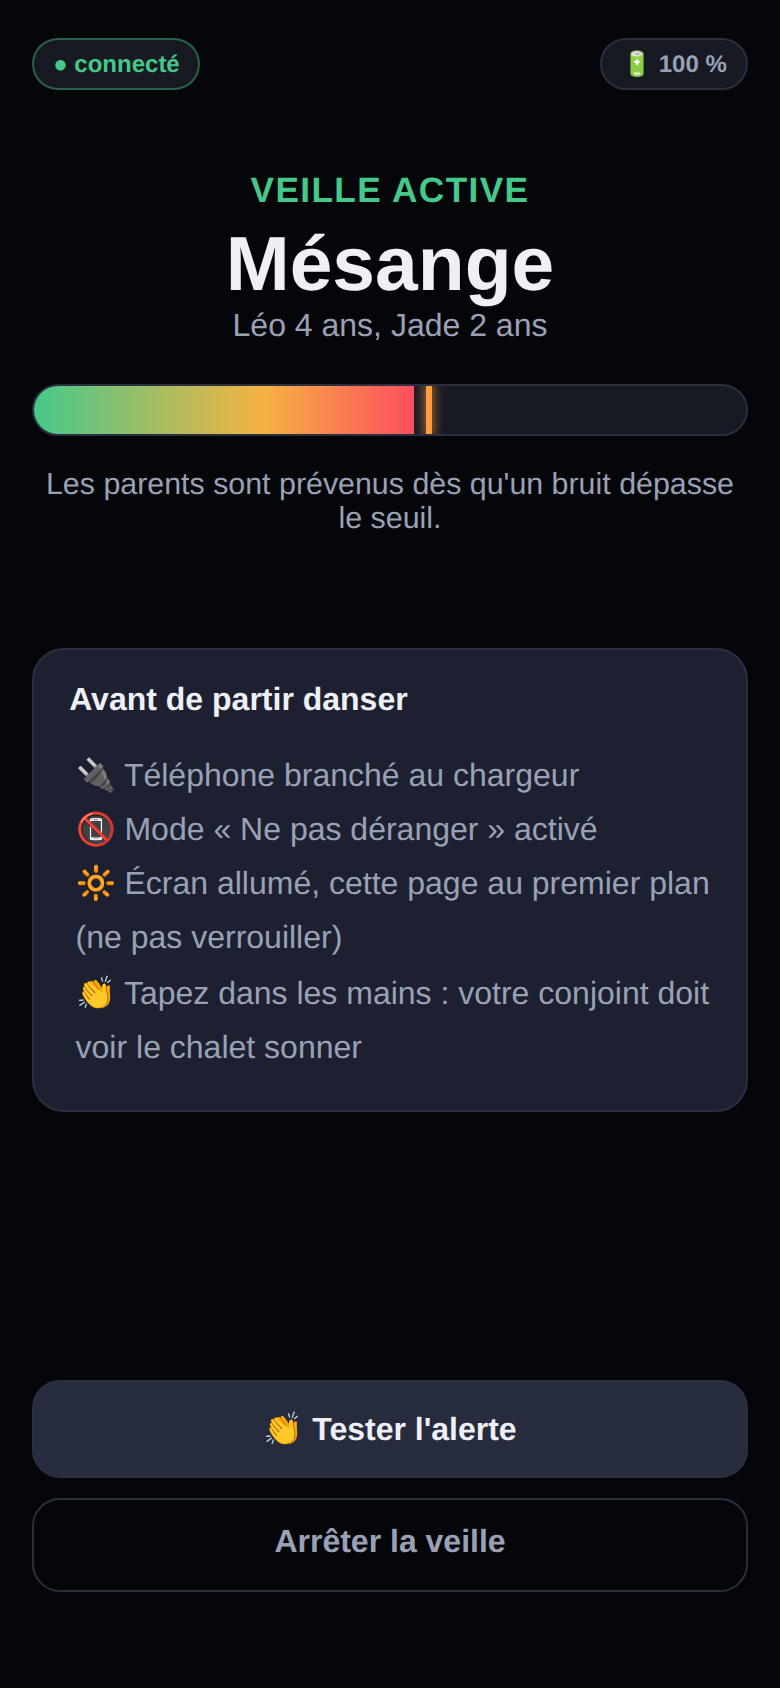
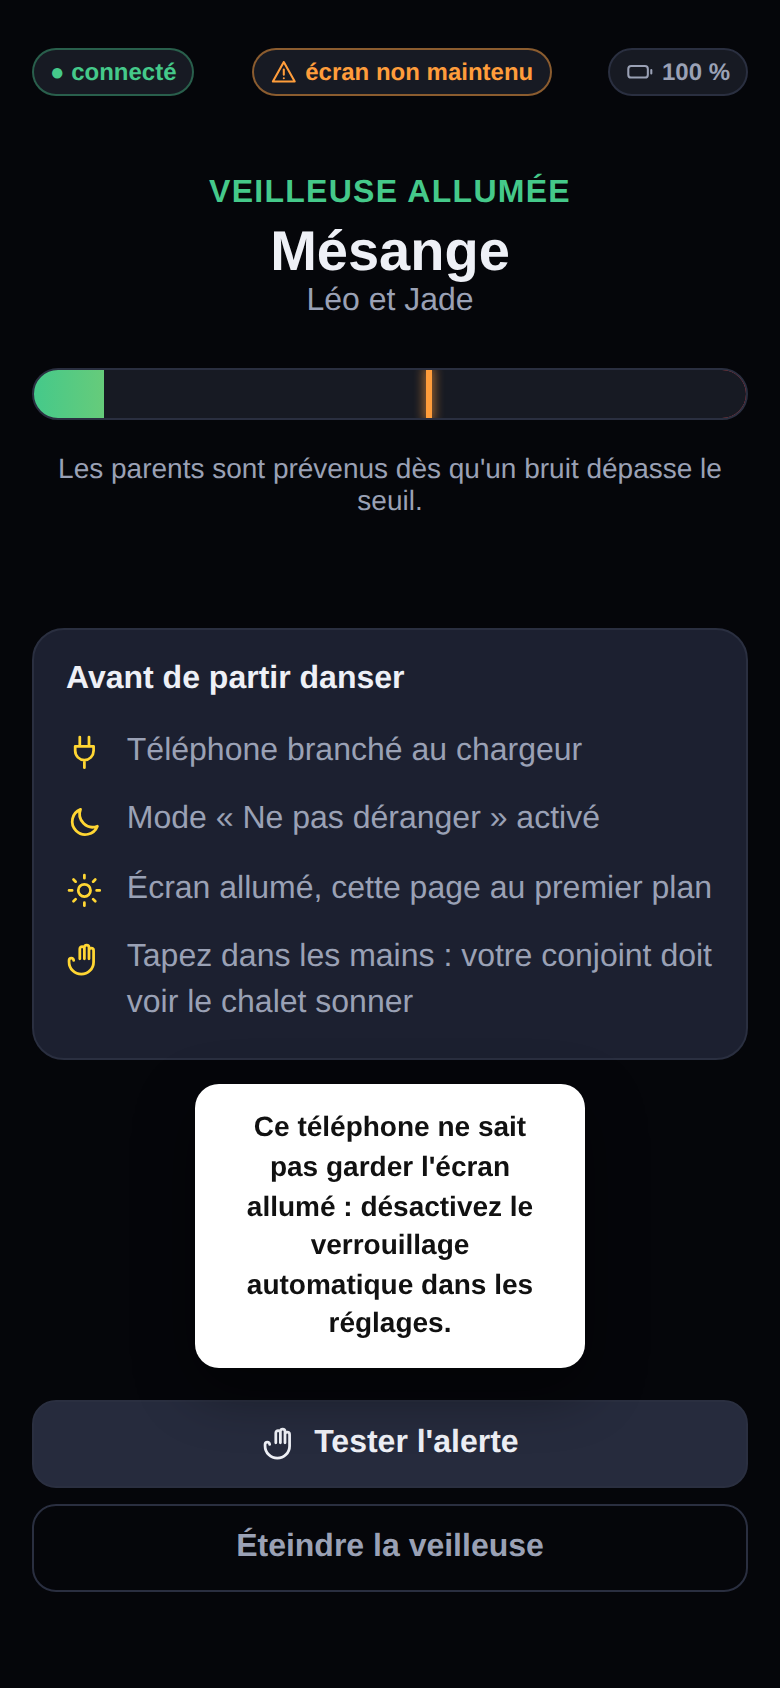
Prénoms plus grands, et « Préparer la veilleuse »
- Les prénoms des enfants passent presque à la taille du nom du chalet
  dans l'alerte plein écran, et plus grands encore sur l'écran de la sono.
- Les suggestions ne montrent plus les âges : « ex. Léo et Jade ».
- « Régler le chalet » ne sonnait pas français. Devient « Préparer la
  veilleuse », qui fait la paire avec « Allumer la veilleuse » à la fin
  du réglage.
- Captures du README régénérées : elles montraient encore l'interface
  d'avant la refonte.

diff --git a/app/static/app.css b/app/static/app.css
@@ -205,7 +205,7 @@ input[type=text]:focus, select:focus { border-color: var(--amber); }
 @keyframes flash { 50% { background: rgba(255,60,80,.98); } }
 .overlay-kicker { font-size: var(--t-lg); font-weight: 700; letter-spacing: .1em; text-transform: uppercase; opacity: .85; }
 .overlay-name { font-size: clamp(2.6rem, 10vw, 7rem); font-weight: 900; line-height: 1.05; margin: var(--s1) 0; }
-.overlay-kids { font-size: clamp(1.4rem, 5vw, 3rem); font-weight: 600; line-height: 1.15; margin-top: var(--s2); }
+.overlay-kids { font-size: clamp(1.9rem, 7.5vw, 4.5rem); font-weight: 700; line-height: 1.1; margin-top: var(--s2); }
 .overlay-since { font-size: clamp(1rem, 2.4vw, 1.6rem); opacity: .8; margin-top: var(--s2); font-variant-numeric: tabular-nums; }
 .overlay-actions { display: flex; flex-direction: column; gap: var(--s3); align-items: center; margin-top: var(--s5); }
 .overlay-actions .btn { min-width: 15rem; }
@@ -239,7 +239,7 @@ body.sono .tile .status { font-size: var(--t-lg); }
 body.sono .tile .actions { display: none; }
 body.sono .meter { height: 18px; }
 body.sono .overlay-name { font-size: clamp(4rem, 15vw, 13rem); }
-body.sono .overlay-kids { font-size: clamp(2rem, 6vw, 4.5rem); }
+body.sono .overlay-kids { font-size: clamp(2.5rem, 8vw, 6.5rem); }
 body.sono .overlay-since { font-size: clamp(1.5rem, 3vw, 2.5rem); }
 body.sono .overlay-actions { display: none; }
 

diff --git a/app/static/app.js b/app/static/app.js
@@ -70,7 +70,7 @@
   // On ne demande que ce que le rôle choisi rend nécessaire : le prénom ne sert
   // qu'aux récepteurs (il s'affiche dans « X y va »), le chalet n'en a pas besoin.
   const ROLE_STEP = {
-    chalet: { label: "Le téléphone du chalet", name: false, cta: "Régler le chalet" },
+    chalet: { label: "Le téléphone du chalet", name: false, cta: "Préparer la veilleuse" },
     salle: { label: "Le téléphone qui vient danser", name: true, cta: "Voir les chalets" },
     sono: { label: "L'écran de la sono", name: false, cta: "Afficher le tableau" },
   };

diff --git a/app/static/index.html b/app/static/index.html
@@ -94,7 +94,7 @@
       <input id="in-chalet" type="text" placeholder="ex. Mésange" required>
     </label>
     <label>Prénoms des enfants
-      <input id="in-kids" type="text" placeholder="ex. Léo 4 ans, Jade 2 ans">
+      <input id="in-kids" type="text" placeholder="ex. Léo et Jade">
       <small class="hint">Ils s'affichent en grand quand ce chalet sonne — c'est ce qui permet de reconnaître le sien d'un coup d'œil.</small>
     </label>
     <!-- Le micro d'abord : sans lui, régler la sensibilité se ferait à l'aveugle. -->

diff --git a/docs/e2e.py b/docs/e2e.py
@@ -26,7 +26,7 @@ async def main():
         await ch.fill("#in-code", "anniv sylvain")   # le prénom ne sert pas au chalet
         await ch.click("#btn-continue")
         await ch.wait_for_selector("#view-chalet-setup:not(.hidden)")
-        await ch.fill("#in-chalet", "Mésange"); await ch.fill("#in-kids", "Léo 4 ans, Jade 2 ans")
+        await ch.fill("#in-chalet", "Mésange"); await ch.fill("#in-kids", "Léo et Jade")
         await ch.click("#btn-mic"); await asyncio.sleep(1)
         await ch.screenshot(path="docs/03-chalet-reglage.png")
         await ch.click("#form-chalet button[type=submit]")
@@ -41,7 +41,7 @@ async def main():
         await ch2.click("#btn-continue")
         await ch2.wait_for_selector("#view-chalet-setup:not(.hidden)")
         await ch2.click("#btn-mic"); await asyncio.sleep(0.6)
-        await ch2.fill("#in-chalet", "Pinson"); await ch2.fill("#in-kids", "Emma 6 ans")
+        await ch2.fill("#in-chalet", "Pinson"); await ch2.fill("#in-kids", "Emma")
         await ch2.click("#form-chalet button[type=submit]")
         await ch2.wait_for_selector("#view-chalet-run:not(.hidden)"); await asyncio.sleep(1)
         # choose own chalet on receiver, then trigger test alert
